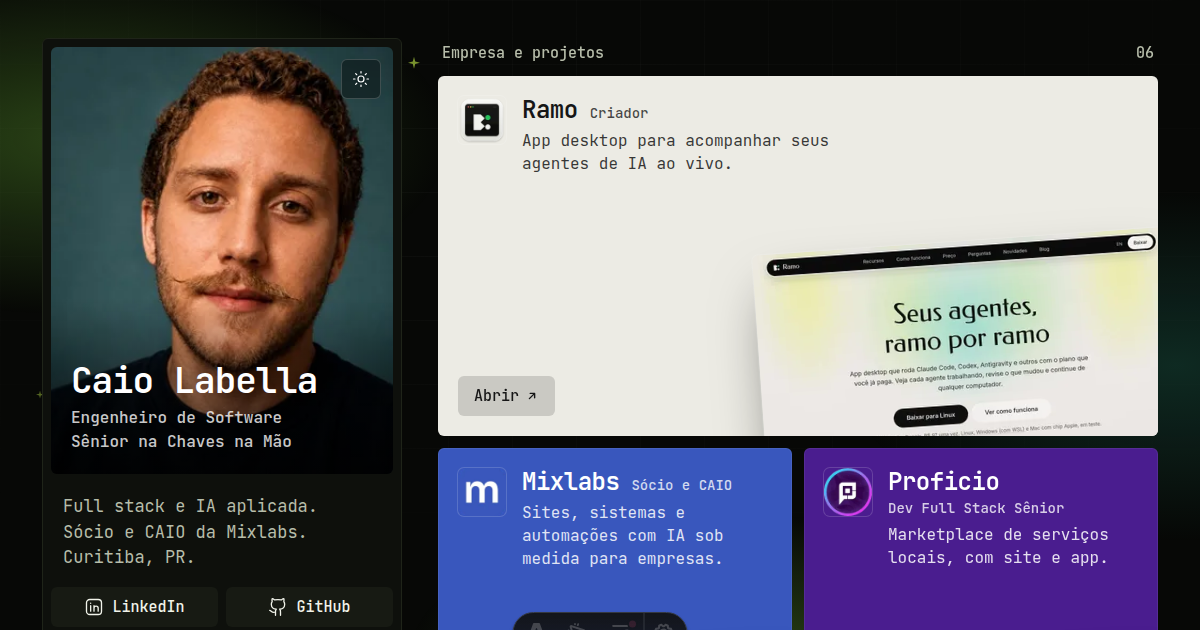
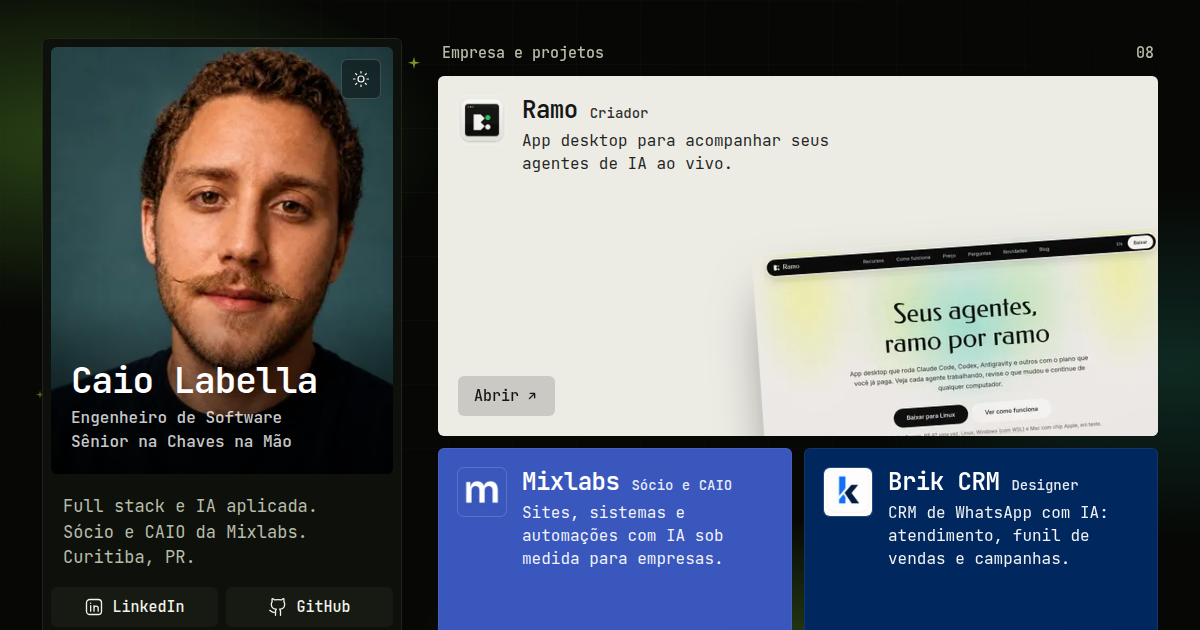
Adiciona Brik CRM e DojoPlanner aos projetos

Changed region(s): [[0.6475, 0.6937, 0.9867, 1.0], [0.4008, 0.9651, 0.5858, 1.0]]

diff --git a/src/data/perfil.ts b/src/data/perfil.ts
@@ -4,6 +4,10 @@ import ramoIcone from '../assets/projetos/ramo-icone.png';
 import ramoTela from '../assets/projetos/ramo.jpg';
 import mixlabsIcone from '../assets/projetos/mixlabs-icone.png';
 import mixlabsTela from '../assets/projetos/mixlabs.jpg';
+import brikIcone from '../assets/projetos/brik-icone.png';
+import brikTela from '../assets/projetos/brik.jpg';
+import dojoplannerIcone from '../assets/projetos/dojoplanner-icone.png';
+import dojoplannerTela from '../assets/projetos/dojoplanner.jpg';
 import proficioIcone from '../assets/projetos/proficio-icone.png';
 import proficioTela from '../assets/projetos/proficio.jpg';
 import ulumaIcone from '../assets/projetos/uluma-icone.png';
@@ -43,7 +47,7 @@ export const perfil = {
   titulo: 'Engenheiro de Software Sênior na Chaves na Mão',
   bio: 'Full stack e IA aplicada. Sócio e CAIO da Mixlabs. Curitiba, PR.',
   resumo:
-    'Trabalha com desenvolvimento full stack e inteligência artificial aplicada, é sócio e Chief AI Officer (CAIO) da Mixlabs e cria produtos próprios como o Ramo, o Pokerly e o Yarnwise.',
+    'Trabalha com desenvolvimento full stack e inteligência artificial aplicada. É sócio e Chief AI Officer (CAIO) da Mixlabs, CEO da DojoPlanner e cria produtos próprios como o Ramo, o Pokerly e o Yarnwise.',
   cidade: 'Curitiba',
   estado: 'PR',
   pais: 'BR',
@@ -65,7 +69,7 @@ export const perfil = {
 export const seo = {
   titulo: 'Caio Labella · Engenheiro de Software Sênior, Full Stack e IA',
   descricao:
-    'Caio Labella, engenheiro de software sênior em Curitiba, full stack e IA aplicada. Sócio e CAIO da Mixlabs e criador do Ramo, Pokerly e Yarnwise.',
+    'Caio Labella, engenheiro de software sênior em Curitiba, full stack e IA aplicada. Sócio e CAIO da Mixlabs, CEO da DojoPlanner e criador do Ramo.',
   idioma: 'pt-BR',
   locale: 'pt_BR',
   corEscura: '#070806',
@@ -97,6 +101,30 @@ export const projetos: Projeto[] = [
     tela: mixlabsTela,
     cor: '#3957bd',
     tinta: '#ffffff',
+  },
+  {
+    nome: 'Brik CRM',
+    url: 'https://brikcrm.com.br',
+    papel: 'Designer',
+    relacao: 'colaborador',
+    descricao: 'CRM de WhatsApp com IA: atendimento, funil de vendas e campanhas.',
+    tipo: 'WebApplication',
+    icone: brikIcone,
+    tela: brikTela,
+    cor: '#00275e',
+    tinta: '#ffffff',
+  },
+  {
+    nome: 'DojoPlanner',
+    url: 'https://dojoplanner.com.br',
+    papel: 'CEO',
+    relacao: 'socio',
+    descricao: 'Gestão para academias de artes marciais: alunos, faixas, presenças e Pix.',
+    tipo: 'Organization',
+    icone: dojoplannerIcone,
+    tela: dojoplannerTela,
+    cor: '#f97316',
+    tinta: '#16243f',
   },
   {
     nome: 'Proficio',
